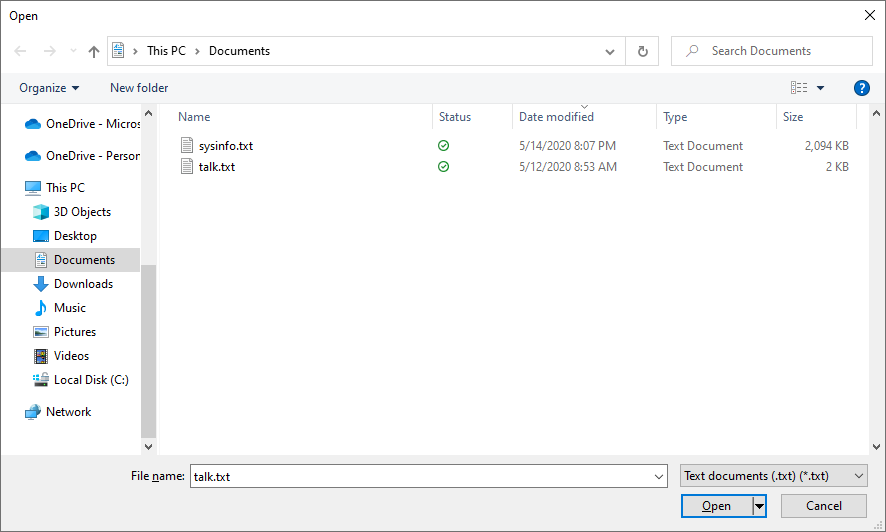
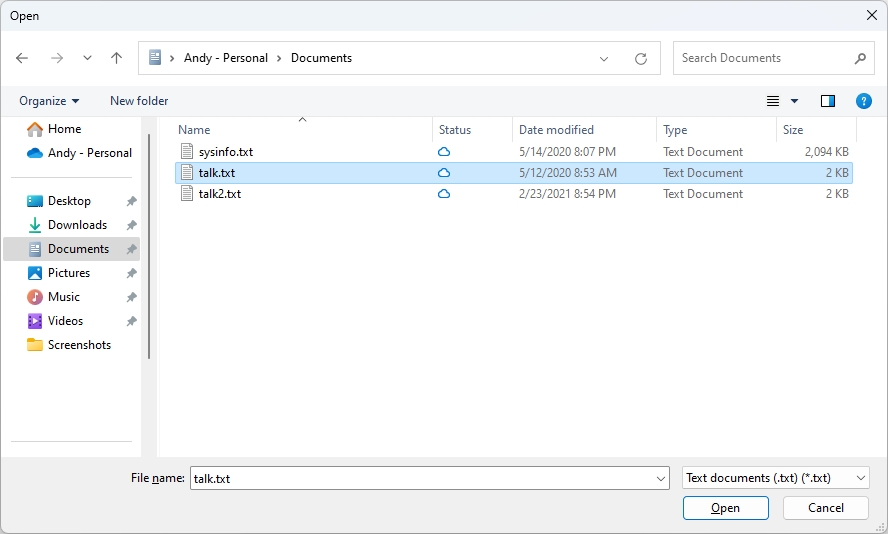
update article and screenshots

diff --git a/dotnet-desktop-guide/net/wpf/windows/snippets/how-to-open-common-system-dialog-box/vb/Window1.xaml b/dotnet-desktop-guide/net/wpf/windows/snippets/how-to-open-common-system-dialog-box/vb/Window1.xaml
@@ -10,6 +10,7 @@
         <Button Click="Button_Click">Message Box</Button>
         <Button Click="Save_Click">Save file</Button>
         <Button Click="Open_Click">Open file</Button>
+        <Button Click="OpenFolder_Click">Open folder</Button>
         <Button Click="Print_Click">Print</Button>
     </StackPanel>
 </Window>

diff --git a/dotnet-desktop-guide/net/wpf/windows/snippets/how-to-open-common-system-dialog-box/csharp/Window1.xaml b/dotnet-desktop-guide/net/wpf/windows/snippets/how-to-open-common-system-dialog-box/csharp/Window1.xaml
@@ -10,6 +10,7 @@
         <Button Click="Button_Click">Message Box</Button>
         <Button Click="Save_Click">Save file</Button>
         <Button Click="Open_Click">Open file</Button>
+        <Button Click="OpenFolder_Click">Open folder</Button>
         <Button Click="Print_Click">Print</Button>
     </StackPanel>
 

diff --git a/dotnet-desktop-guide/net/wpf/windows/snippets/how-to-open-common-system-dialog-box/csharp/Window1.xaml.cs b/dotnet-desktop-guide/net/wpf/windows/snippets/how-to-open-common-system-dialog-box/csharp/Window1.xaml.cs
@@ -79,6 +79,54 @@ namespace WindowsOverview
             //</OpenFile>
         }
 
+        private void OpenFolder_Click(object sender, RoutedEventArgs e)
+        {
+            //<OpenFolder>
+            // Configure open folder dialog box
+            Microsoft.Win32.OpenFolderDialog dialog = new();
+
+            dialog.Multiselect = false;
+            dialog.Title = "Select a folder";
+
+            // Show open folder dialog box
+            bool? result = dialog.ShowDialog();
+
+            // Process open folder dialog box results
+            if (result == true)
+            {
+                // Get the selected folder
+                string fullPathToFolder = dialog.FolderName;
+                string folderNameOnly = dialog.SafeFolderName;
+            }
+            //</OpenFolder>
+        }
+
+        private void OpenFolderMultiple_Click(object sender, RoutedEventArgs e)
+        {
+            //<OpenFolderMultiselect>
+            // Configure open folder dialog box
+            Microsoft.Win32.OpenFolderDialog dialog = new();
+
+            dialog.Multiselect = true;
+            dialog.Title = "Select one or more folders";
+
+            // Show open folder dialog box
+            bool? result = dialog.ShowDialog();
+
+            // Process open folder dialog box results
+            if (result == true)
+            {
+                // Get multiple folder names
+                for (int index = 0; index < dialog.FolderNames.Length; index++)
+                {
+                    // Get the selected folder
+                    string fullPathToFolder = dialog.FolderNames[index];
+                    string folderNameOnly = dialog.SafeFolderNames[index];
+                }
+            }
+            //</OpenFolderMultiselect>
+        }
+
         private void Print_Click(object sender, RoutedEventArgs e)
         {
             //<Print>

diff --git a/dotnet-desktop-guide/net/wpf/windows/how-to-open-common-system-dialog-box.md b/dotnet-desktop-guide/net/wpf/windows/how-to-open-common-system-dialog-box.md
@@ -25,7 +25,7 @@ The open file dialog box is used by file opening functionality to retrieve the n
 
 :::image type="content" source="media/how-to-open-common-system-dialog-box/open-file-dialog-box.png" alt-text="An Open dialog box showing the location to retrieve the file shown from a WPF application.":::
 
-The common open file dialog box is implemented as the <xref:Microsoft.Win32.OpenFileDialog> class and is located in the <xref:Microsoft.Win32> namespace. The following code shows how to create, configure, and show one, and how to process the result.
+The common open file dialog box is implemented as the <xref:Microsoft.Win32.OpenFileDialog> class and is located in the <xref:Microsoft.Win32> namespace. The following code shows how to create, configure, and show the dialog.
 
 :::code language="csharp" source="snippets/how-to-open-common-system-dialog-box/csharp/Window1.xaml.cs" id="OpenFile":::
 :::code language="vb" source="snippets/how-to-open-common-system-dialog-box/vb/Window1.xaml.vb" id="OpenFile":::
@@ -38,18 +38,34 @@ The save file dialog box is used by file saving functionality to retrieve the na
 
 :::image type="content" source="media/how-to-open-common-system-dialog-box/save-file-dialog-box.png" alt-text="A Save As dialog box showing the location to save the file shown from a WPF application.":::
 
-The common save file dialog box is implemented as the <xref:Microsoft.Win32.SaveFileDialog> class, and is located in the <xref:Microsoft.Win32> namespace. The following code shows how to create, configure, and show one, and how to process the result.
+The common save file dialog box is implemented as the <xref:Microsoft.Win32.SaveFileDialog> class, and is located in the <xref:Microsoft.Win32> namespace. The following code shows how to create, configure, and show the dialog.
 
 :::code language="csharp" source="snippets/how-to-open-common-system-dialog-box/csharp/Window1.xaml.cs" id="SaveFile":::
 :::code language="vb" source="snippets/how-to-open-common-system-dialog-box/vb/Window1.xaml.vb" id="SaveFile":::
 
 For more information on the save file dialog box, see <xref:Microsoft.Win32.SaveFileDialog?displayProperty=nameWithType>.
 
+## Open Folder dialog box
+
+> [!IMPORTANT]
+> The Open Folder dialog box is available in .NET 8.0 and later.
+
+The Open Folder dialog box is used by the user to select one or more folders, and return them to the program. For example, if your program displayed information about a folder, such as the amount of files and the file names in the folder, you can use the Open Folder dialog to let the user choose the folder.
+
+:::image type="content" source="media/how-to-open-common-system-dialog-box/open-folder-dialog-box.png" alt-text="An Open Folder dialog box showing the Pictures folder with the Camera Roll folder selected, shown from a WPF application.":::
+
+The common open folder dialog box is implemented as the <xref:Microsoft.Win32.OpenFolderDialog> class, and is located in the <xref:Microsoft.Win32> namespace. The following code shows how to create, configure, and show the dialog.
+
+:::code language="csharp" source="snippets/how-to-open-common-system-dialog-box/csharp/Window1.xaml.cs" id="OpenFolder":::
+:::code language="vb" source="snippets/how-to-open-common-system-dialog-box/vb/Window1.xaml.vb" id="OpenFolder":::
+
+For more information on the open folder dialog box, see <xref:Microsoft.Win32.OpenFolderDialog?displayProperty=nameWithType>.
+
 ## Print dialog box
 
 The print dialog box is used by printing functionality to choose and configure the printer that a user wants to print data to.
 
-:::image type="content" source="media/how-to-open-common-system-dialog-box/print-data-dialog-box.png" alt-text="A print dialog box shown from a WPF application.":::
+:::image type="content" source="media/how-to-open-common-system-dialog-box/print-data-dialog-box-win11.png" alt-text="A print dialog box shown from a WPF application.":::
 
 The common print dialog box is implemented as the <xref:System.Windows.Controls.PrintDialog> class, and is located in the <xref:System.Windows.Controls> namespace. The following code shows how to create, configure, and show one.
 

diff --git a/dotnet-desktop-guide/net/wpf/windows/dialog-boxes-overview.md b/dotnet-desktop-guide/net/wpf/windows/dialog-boxes-overview.md
@@ -43,7 +43,7 @@ Windows implements different kinds of reusable dialog boxes that are common to a
 
 Since these dialog boxes are provided by the operating system, they're shared among all the applications that run on the operating system. These dialog boxes provide a consistent user experience, and are known as _common dialog boxes_. As a user uses a common dialog box in one application, they don't need to learn how to use that dialog box in other applications.
 
-WPF encapsulates the open file, save file, and print common dialog boxes and exposes them as managed classes for you to use in standalone applications.
+WPF encapsulates the open file, save file, open folder, and print common dialog boxes and exposes them as managed classes for you to use.
 
 :::image type="content" source="media/dialog-boxes-overview/open-file-dialog-box.png" alt-text="Open file dialog box called from WPF.":::
 
@@ -52,6 +52,7 @@ To learn more about common dialog boxes, see the following articles:
 - [How to display a common dialog box](how-to-open-common-system-dialog-box.md)
 - [Show the Open File dialog box](how-to-open-common-system-dialog-box.md#open-file-dialog-box)
 - [Show the Save File dialog box](how-to-open-common-system-dialog-box.md#save-file-dialog-box)
+- [Open Folder dialog box](how-to-open-common-system-dialog-box.md#open-folder-dialog-box)
 - [Show the Print dialog box](how-to-open-common-system-dialog-box.md#print-dialog-box)
 
 ## Custom dialog boxes
